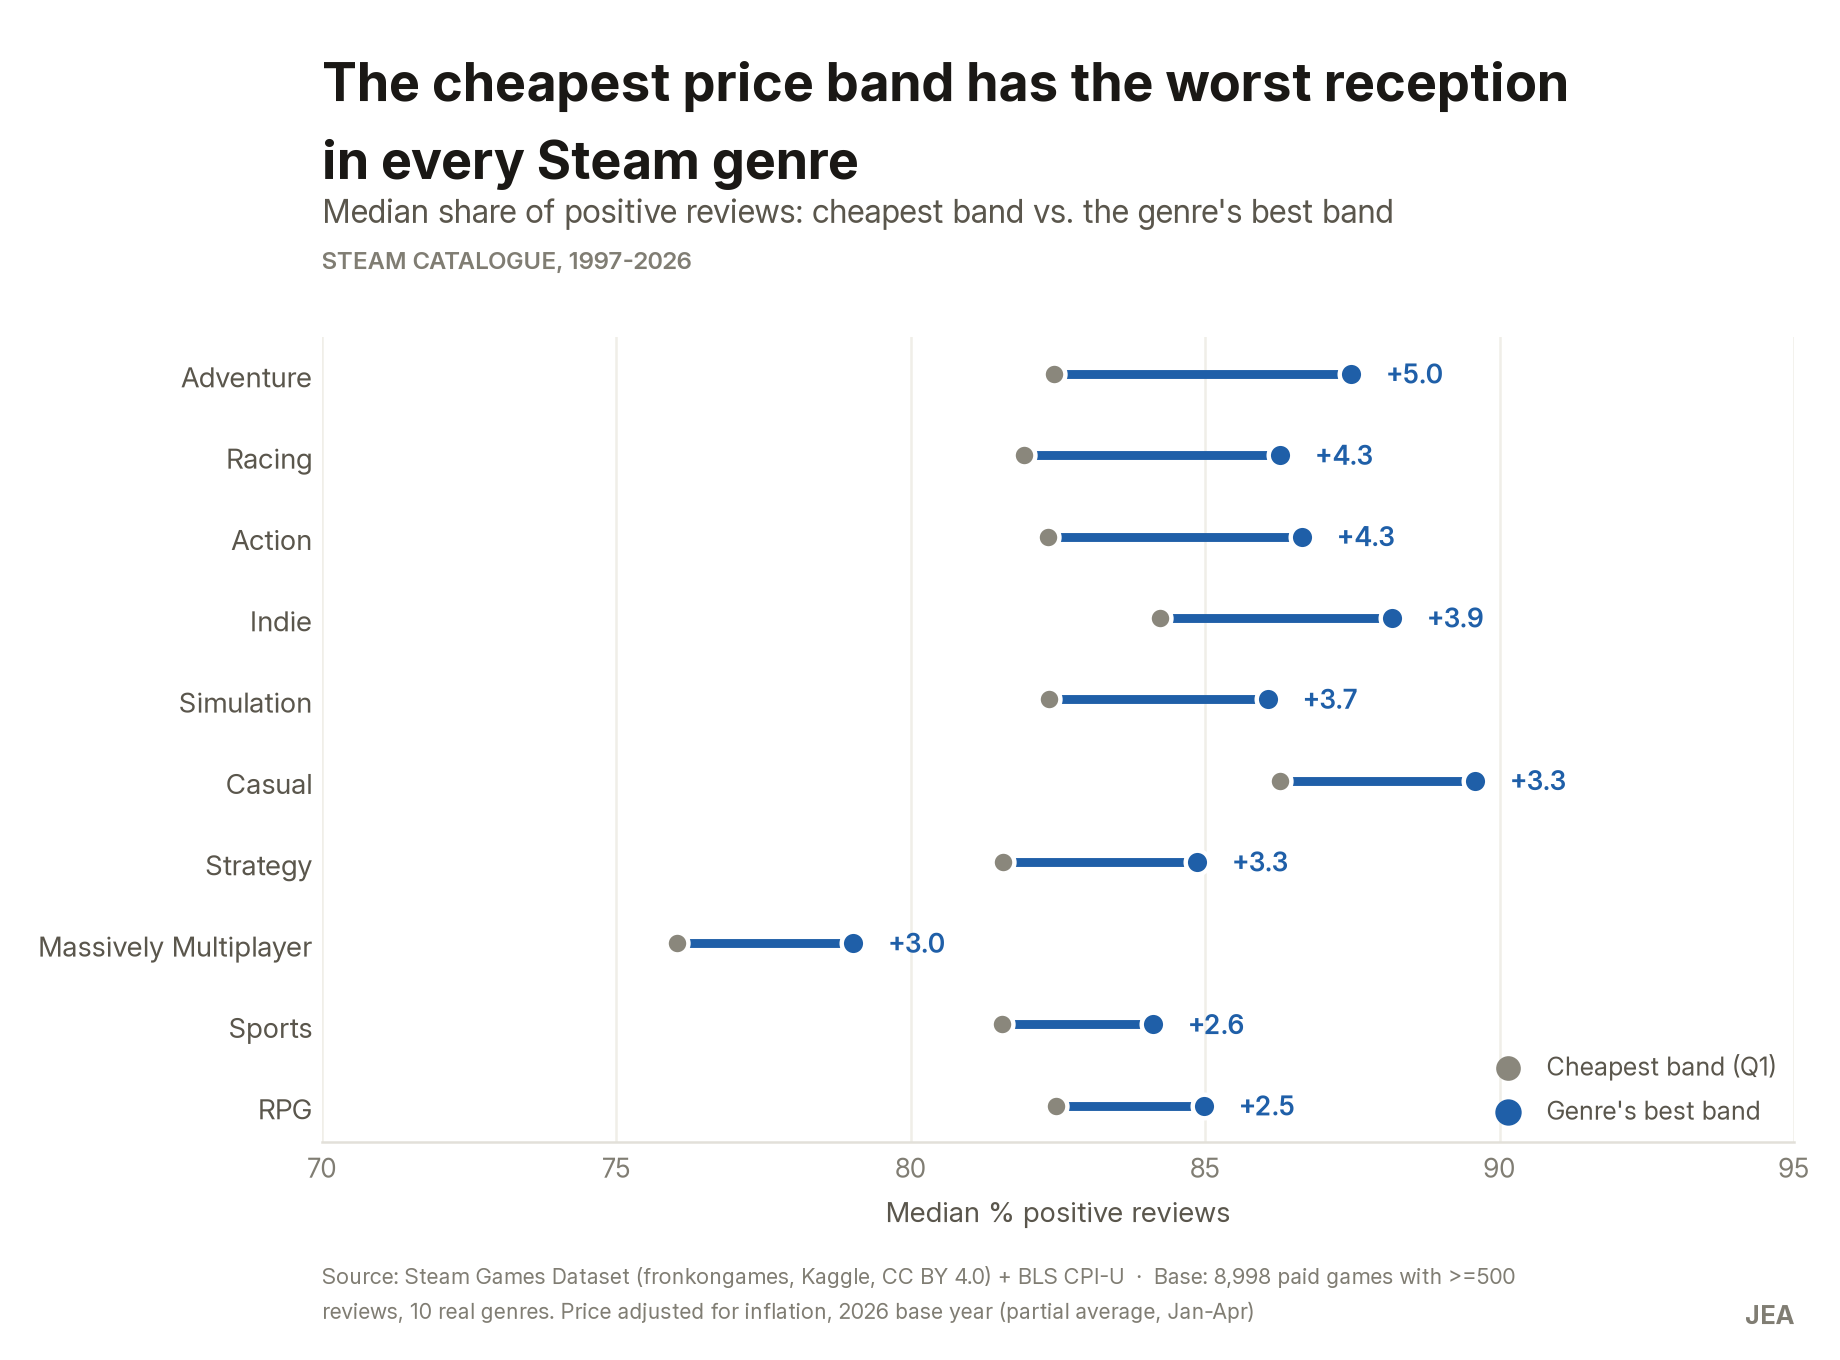
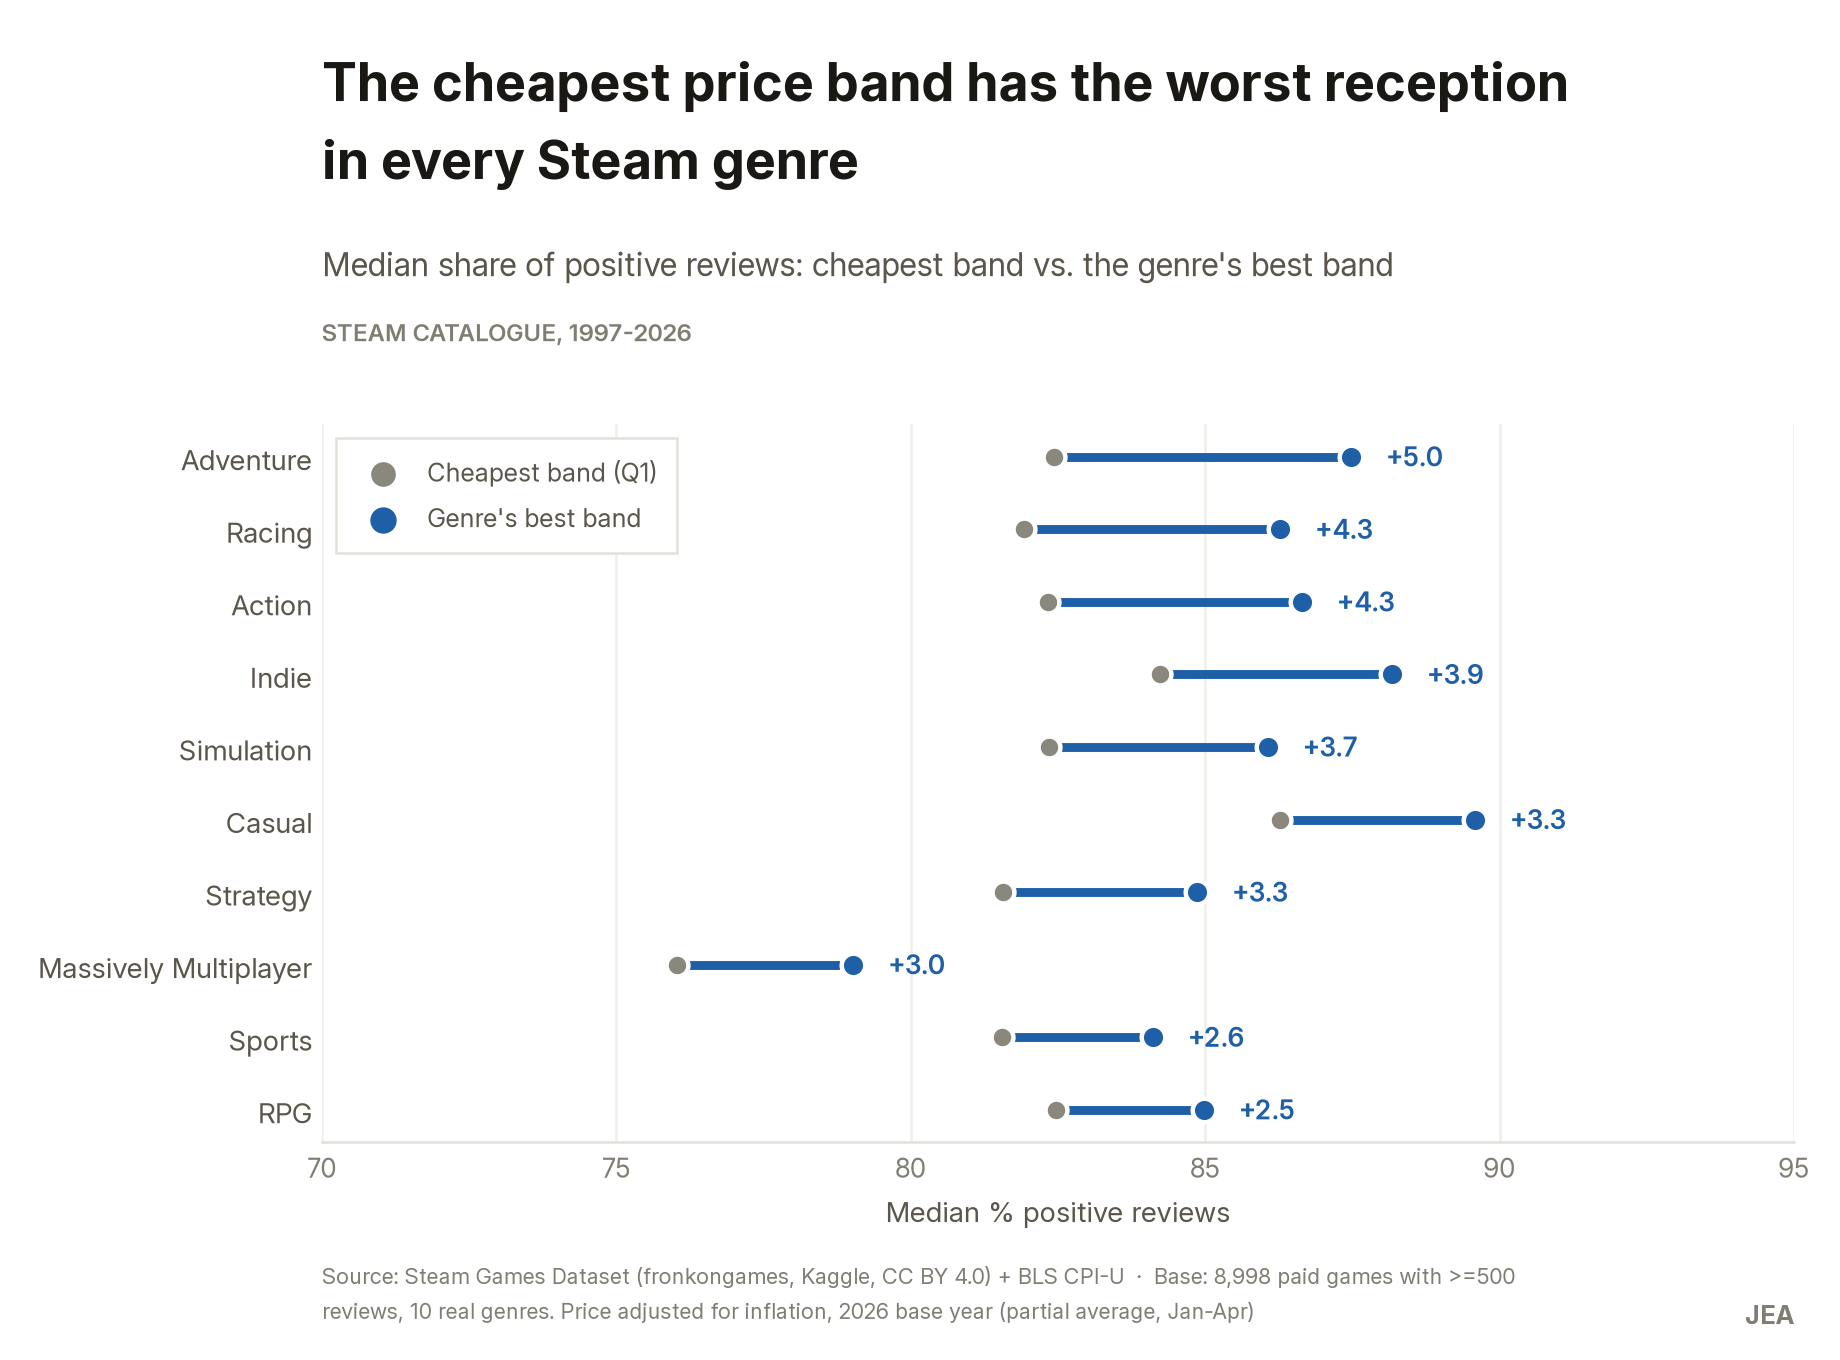
Fix the header rhythm and stop pinning the legend to a corner
Two defects that were arithmetic, not taste.

The header spacing was expressed as a fraction of figure height while type
is measured in points. The two only agree at one canvas size: at 6.8in the
gap between headline and subtitle was 4.5pt, and at 6.2in it collapsed to
zero and the two overlapped. Heights are now measured from the composed
text and the gaps are constants in points, so the air is identical at any
figsize. Verified across three heights and two widths: 14.0pt every time.

The legend was pinned to a corner. In figure 4 that corner was full of the
Q1 bars, so the key sat unreadable in the middle of the data. It now goes
wherever the plot is emptiest, framed with an opaque fill so it reads as a
block rather than text floating over the gridlines. Where nothing is free
— bars from zero filling the panel — the module opens headroom and places
it again; widening the axis alone does nothing, because the placement was
already chosen and is not re-evaluated.

diff --git a/notebooks/estilo.py b/notebooks/estilo.py
@@ -63,6 +63,27 @@ _RAMPA_TEXTO_BLANCO = 4
 FIRMA = "JEA"
 
 # ---------------------------------------------------------------------------
+# Ritmo vertical de la cabecera
+# ---------------------------------------------------------------------------
+#
+# En PUNTOS, no en fracción del lienzo. Es la diferencia entre un diseño y una
+# coincidencia: la tipografía se mide en puntos, así que si el aire se expresa
+# como fracción de la altura de la figura, el mismo diseño se aprieta al bajar
+# el lienzo y se desparrama al subirlo. Con una figura de 6.2" de alto el aire
+# entre titular y subtítulo llegaba a cero y los dos se solapaban.
+#
+# Tocar estos cuatro números cambia el espaciado de todas las figuras a la vez,
+# que es justo lo que hace que se vean como una familia.
+
+TAM_TITULAR = 19.0
+TAM_SUBTITULO = 11.5
+TAM_PERIODO = 8.5
+
+GAP_TITULAR_SUB = 14.0    # pt entre el titular y el subtítulo
+GAP_SUB_PERIODO = 9.0     # pt entre el subtítulo y la línea de periodo
+GAP_CABECERA_EJE = 26.0   # pt entre la cabecera y el borde superior de los ejes
+
+# ---------------------------------------------------------------------------
 # Tipografía
 # ---------------------------------------------------------------------------
 
@@ -144,6 +165,10 @@ def figura(titular, subtitulo=None, periodo=None, fuente=None, nota=None,
     que define la métrica, y una tercera línea opcional en versalitas con el
     alcance. El salto de tamaño y color entre los tres niveles es deliberado.
 
+    El aire entre niveles sale de las constantes `GAP_*`, en puntos, y el alto
+    de cada nivel se mide del texto ya dibujado. Así el espaciado es el mismo en
+    pulgadas sea cual sea el tamaño del lienzo.
+
     `abajo` no baja de 0.16: por debajo de eso el rótulo del eje X se solapa con
     la nota de fuente cuando la nota ocupa dos líneas.
     """
@@ -152,25 +177,38 @@ def figura(titular, subtitulo=None, periodo=None, fuente=None, nota=None,
 
     # Ancho de envoltura estimado a partir del ancho real en pulgadas.
     pulgadas = figsize[0] * ancho_util
-    y = 0.965
 
-    fig.text(izquierda, y, "\n".join(textwrap.wrap(titular, width=int(pulgadas * 6.4))),
-             va="top", ha="left", color=TINTA, linespacing=1.22,
-             **_prop("negrita", 19))
-    y -= 0.052 * (1 + titular.count("\n") + len(titular) // int(pulgadas * 6.4))
+    def gap(puntos):
+        """Puntos -> fracción de la altura de la figura."""
+        return puntos / (figsize[1] * 72.0)
+
+    def poner(texto, y, tam, peso, color, interlineado, ancho):
+        """Dibuja un nivel de la cabecera y devuelve la `y` del siguiente.
+
+        Mide el alto real del texto ya compuesto en vez de estimarlo a partir
+        del número de caracteres: `textwrap` ya sabe cuántas líneas salieron, y
+        el renderizador sabe cuánto ocupan.
+        """
+        t = fig.text(izquierda, y, "\n".join(textwrap.wrap(texto, width=ancho)),
+                     va="top", ha="left", color=color, linespacing=interlineado,
+                     **_prop(peso, tam))
+        caja = t.get_window_extent(renderer=fig.canvas.get_renderer())
+        return y - caja.transformed(fig.transFigure.inverted()).height
+
+    y = 0.965
+    y = poner(titular, y, TAM_TITULAR, "negrita", TINTA, 1.22, int(pulgadas * 6.4))
 
     if subtitulo:
-        fig.text(izquierda, y, "\n".join(textwrap.wrap(subtitulo, width=int(pulgadas * 11))),
-                 va="top", ha="left", color=TINTA_SUAVE, linespacing=1.3,
-                 **_prop("regular", 11.5))
-        y -= 0.038 * (1 + len(subtitulo) // int(pulgadas * 11))
+        y -= gap(GAP_TITULAR_SUB)
+        y = poner(subtitulo, y, TAM_SUBTITULO, "regular", TINTA_SUAVE, 1.3,
+                  int(pulgadas * 11))
 
     if periodo:
-        fig.text(izquierda, y - 0.004, periodo.upper(), va="top", ha="left",
-                 color=TINTA_TENUE, **_prop("medio", 8.5))
-        y -= 0.036
+        y -= gap(GAP_SUB_PERIODO)
+        y = poner(periodo.upper(), y, TAM_PERIODO, "medio", TINTA_TENUE, 1.2,
+                  int(pulgadas * 15))
 
-    arriba = max(y - 0.035, 0.45)
+    arriba = max(y - gap(GAP_CABECERA_EJE), 0.45)
     ax = fig.add_axes([izquierda, abajo, ancho_util, arriba - abajo])
 
     pie = []
@@ -211,6 +249,71 @@ def destacar(categorias, protagonistas, acento=ACENTO, resto=CONTEXTO):
     return [acento if c in p else resto for c in categorias]
 
 
+def leyenda(ax, tam=9, holgura_max=0.45, **kwargs):
+    """Leyenda en el hueco más libre de datos, enmarcada como un bloque.
+
+    Dos decisiones, y son independientes:
+
+    **Dónde.** `loc="best"` — matplotlib ya evalúa el solapamiento con líneas,
+    parches y colecciones y elige el ancla con menos. Fijarla a mano
+    (`"lower right"`) funciona hasta que los datos cambian de forma: así fue
+    como una leyenda acabó metida entre las barras del primer grupo.
+
+    **Cómo.** Relleno opaco y borde fino. El relleno importa tanto como el
+    borde: es lo que la despega de la cuadrícula y la convierte en un bloque en
+    vez de texto flotando encima del gráfico.
+
+    Y una red de seguridad: si ni el mejor sitio está libre —barras desde cero
+    que llenan el panel, por ejemplo— `best` devuelve "la esquina menos mala" y
+    el problema sigue ahí. En ese caso se sube el techo del eje hasta abrirle
+    sitio de verdad. La base en cero no se toca, así que no distorsiona nada:
+    solo añade aire arriba.
+    """
+    fig = ax.figure
+    y0, y1 = ax.get_ylim()
+
+    def dibujar():
+        leg = ax.legend(loc="best", frameon=True, fancybox=False, framealpha=1.0,
+                        facecolor=PAPEL, edgecolor=REGLA, borderpad=0.7,
+                        labelspacing=0.55, handletextpad=0.6, **kwargs)
+        leg.get_frame().set_linewidth(0.9)
+        for t in leg.get_texts():
+            t.set_color(TINTA_SUAVE)
+            t.set_fontsize(tam)
+        return leg
+
+    leg = dibujar()
+    if not _pisa_datos(ax, leg):
+        return leg
+
+    # Ampliar el eje sin más no basta: `best` ya eligió y no se reevalúa solo.
+    # Hay que abrir el hueco y volver a colocarla, en el mínimo paso que sirva.
+    for paso in (0.12, 0.22, 0.34, holgura_max):
+        ax.set_ylim(y0, y0 + (y1 - y0) * (1 + paso))
+        leg.remove()
+        fig.canvas.draw()
+        leg = dibujar()
+        if not _pisa_datos(ax, leg):
+            return leg
+    return leg
+
+
+def _pisa_datos(ax, leg) -> bool:
+    """¿La leyenda se superpone a alguna marca dibujada?"""
+    r = ax.figure.canvas.get_renderer()
+    caja = leg.get_window_extent(renderer=r)
+    for art in list(ax.patches) + list(ax.lines) + list(ax.collections):
+        try:
+            otra = art.get_window_extent(renderer=r)
+        except (AttributeError, ValueError, TypeError):
+            continue
+        if otra.width <= 0 or otra.height <= 0:
+            continue
+        if caja.overlaps(otra):
+            return True
+    return False
+
+
 def anotar(ax, texto, xy, xytexto, color=TINTA_SUAVE, tam=9, flecha=True):
     """Anotación directiva, con el estilo de las referencias: texto corto que
     señala un punto concreto en vez de un párrafo debajo del gráfico."""
@@ -248,13 +351,11 @@ def dumbbell(ax, categorias, desde, hasta, etiqueta_desde=None, etiqueta_hasta=N
     ax.grid(axis="x", zorder=0)
     ax.set_axisbelow(True)
 
+    # Solo registra las marcas de la clave. Quién dibuja la leyenda es
+    # `leyenda()`, para que haya una sola forma de colocarla.
     if etiqueta_desde and etiqueta_hasta:
         ax.scatter([], [], s=62, color=color_desde, label=etiqueta_desde)
         ax.scatter([], [], s=72, color=color_hasta, label=etiqueta_hasta)
-        leg = ax.legend(loc="lower right", handletextpad=0.4, borderaxespad=0.2)
-        for t in leg.get_texts():
-            t.set_color(TINTA_SUAVE)
-            t.set_fontsize(9)
 
 
 def _color_celda(valor, vmin, vmax):

diff --git a/notebooks/graficos.py b/notebooks/graficos.py
@@ -72,6 +72,7 @@ for i, row in enumerate(f1.itertuples()):
             color=estilo.ACENTO, **estilo._prop('medio', 9.5))
 ax.set_xlim(70, 95)
 ax.set_xlabel('Median % positive reviews')
+estilo.leyenda(ax)
 estilo.guardar(fig, f'{RUTA_BASE}/salidas/graficos/01_q1_vs_mejor_franja.png')
 
 # =================================================================
@@ -176,10 +177,10 @@ for ax, genero in zip(ejes, generos_fig4):
     ax.spines['left'].set_visible(False)
 
 ejes[0].set_ylabel('Median % positive reviews')
-leg = ejes[0].legend(loc='lower left', handletextpad=0.5, borderaxespad=0.3)
-for t in leg.get_texts():
-    t.set_color(estilo.TINTA_SUAVE)
-    t.set_fontsize(9)
+# Los cuatro paneles comparten eje Y, asi que abrir hueco en el primero lo abre
+# en todos. Las barras arrancan en cero y llegan a ~89 de 100: sin holgura no
+# hay un solo rincon libre y la leyenda acababa entre las barras de Q1.
+estilo.leyenda(ejes[0])
 estilo.guardar(fig, f'{RUTA_BASE}/salidas/graficos/04_control_antiguedad.png')
 
 print('Figuras generadas:')
